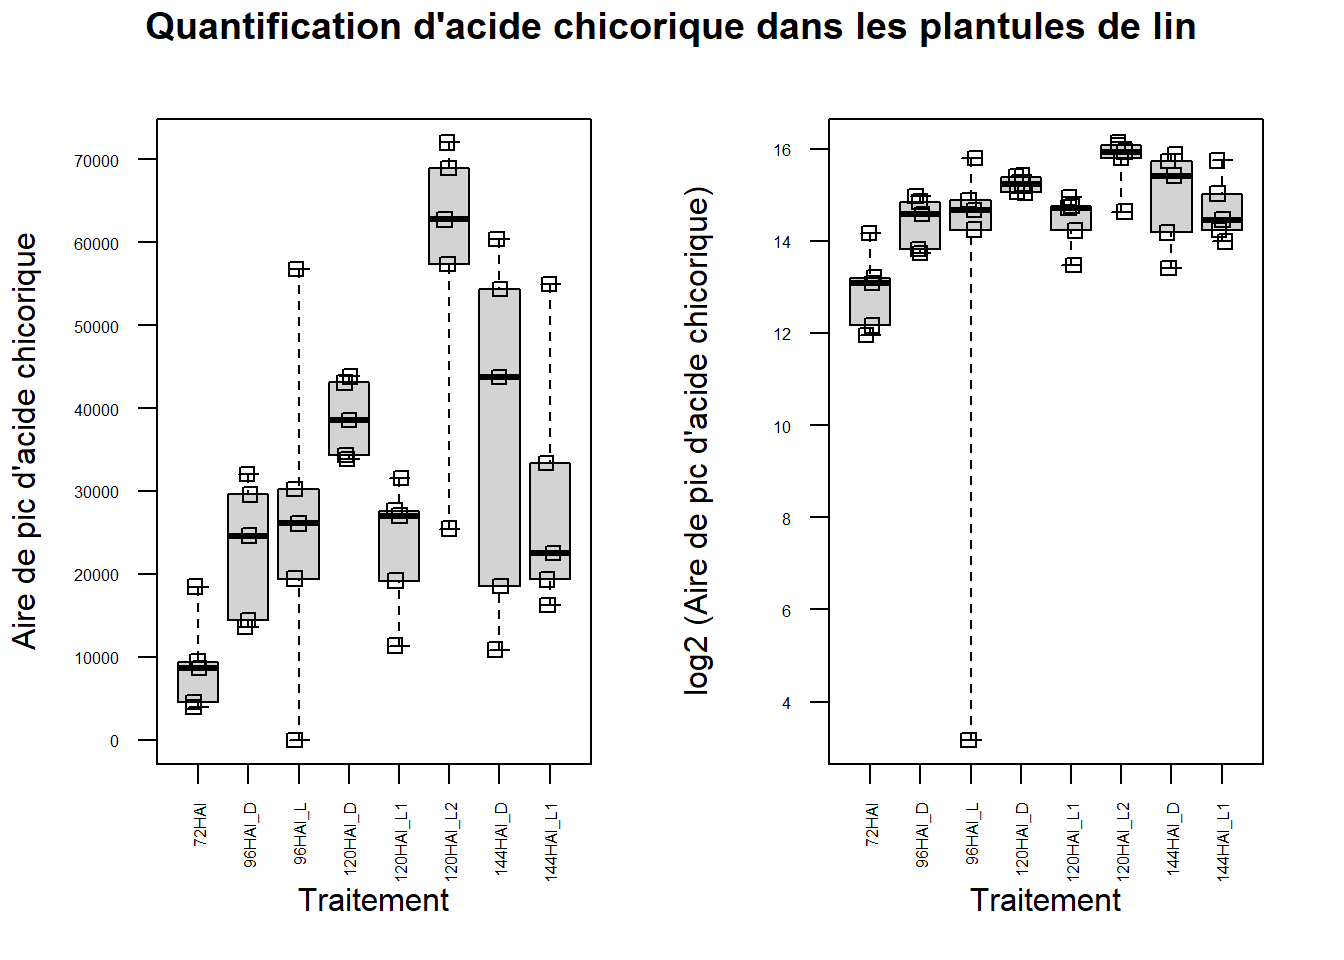
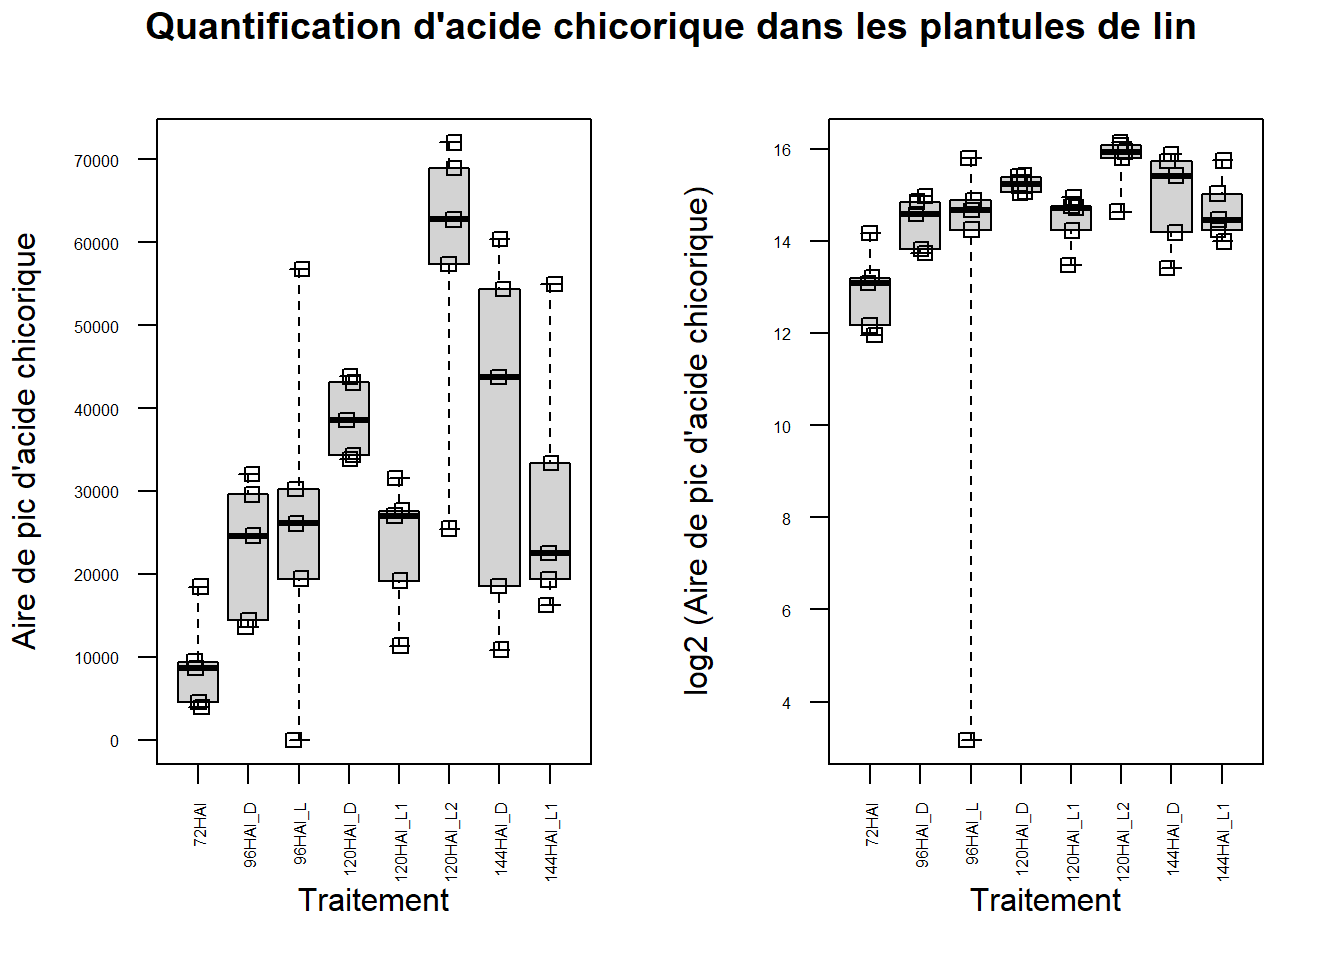
Built site for gh-pages

diff --git a/chicoricacid4.html b/chicoricacid4.html
@@ -392,7 +392,7 @@ F-statistic:  1132 on 1 and 19 DF,  p-value: &lt; 2.2e-16</code></pre>
 [10] "logtot"             </code></pre>
 </div>
 <div class="sourceCode cell-code" id="cb45"><pre class="sourceCode r code-with-copy"><code class="sourceCode r"><span id="cb45-1"><a href="#cb45-1" aria-hidden="true" tabindex="-1"></a><span class="co">#remove aberrant mass</span></span>
-<span id="cb45-2"><a href="#cb45-2" aria-hidden="true" tabindex="-1"></a><span class="co">#flaxdat.subset$weight_dry_tissue[flaxdat.subset$Condition.rep == "96HAI_D.2"]&lt;-NA</span></span>
+<span id="cb45-2"><a href="#cb45-2" aria-hidden="true" tabindex="-1"></a>flaxdat.subset<span class="sc">$</span>weight_dry_tissue[flaxdat.subset<span class="sc">$</span>Condition.rep <span class="sc">==</span> <span class="st">"96HAI_D.2"</span>]<span class="ot">&lt;-</span><span class="cn">NA</span></span>
 <span id="cb45-3"><a href="#cb45-3" aria-hidden="true" tabindex="-1"></a>splitted <span class="ot">&lt;-</span><span class="fu">split</span>(flaxdat.subset, flaxdat.subset<span class="sc">$</span>Condition)</span>
 <span id="cb45-4"><a href="#cb45-4" aria-hidden="true" tabindex="-1"></a></span>
 <span id="cb45-5"><a href="#cb45-5" aria-hidden="true" tabindex="-1"></a><span class="co">#create a funciton</span></span>
@@ -416,7 +416,7 @@ F-statistic:  1132 on 1 and 19 DF,  p-value: &lt; 2.2e-16</code></pre>
 <div class="cell-output cell-output-stdout">
 <pre><code>  Condition Mass_microg CI.lower_microg CI.upper_microg dryweight
 1     72HAI   0.6437733        0.518051       0.8000063  0.001428
-2   96HAI_D   1.3530006        1.082356       1.6913197  0.004554
+2   96HAI_D   1.3530006        1.082356       1.6913197  0.003100
 3   96HAI_L   1.7455929        1.362985       2.2356039  0.003160
 4  120HAI_D   2.0659403        1.640371       2.6019172  0.003748
 5 120HAI_L1   1.3753047        1.099939       1.7196066  0.003190

diff --git a/index.html b/index.html
@@ -392,7 +392,7 @@ F-statistic:  1132 on 1 and 19 DF,  p-value: &lt; 2.2e-16</code></pre>
 [10] "logtot"             </code></pre>
 </div>
 <div class="sourceCode cell-code" id="cb45"><pre class="sourceCode r code-with-copy"><code class="sourceCode r"><span id="cb45-1"><a href="#cb45-1" aria-hidden="true" tabindex="-1"></a><span class="co">#remove aberrant mass</span></span>
-<span id="cb45-2"><a href="#cb45-2" aria-hidden="true" tabindex="-1"></a><span class="co">#flaxdat.subset$weight_dry_tissue[flaxdat.subset$Condition.rep == "96HAI_D.2"]&lt;-NA</span></span>
+<span id="cb45-2"><a href="#cb45-2" aria-hidden="true" tabindex="-1"></a>flaxdat.subset<span class="sc">$</span>weight_dry_tissue[flaxdat.subset<span class="sc">$</span>Condition.rep <span class="sc">==</span> <span class="st">"96HAI_D.2"</span>]<span class="ot">&lt;-</span><span class="cn">NA</span></span>
 <span id="cb45-3"><a href="#cb45-3" aria-hidden="true" tabindex="-1"></a>splitted <span class="ot">&lt;-</span><span class="fu">split</span>(flaxdat.subset, flaxdat.subset<span class="sc">$</span>Condition)</span>
 <span id="cb45-4"><a href="#cb45-4" aria-hidden="true" tabindex="-1"></a></span>
 <span id="cb45-5"><a href="#cb45-5" aria-hidden="true" tabindex="-1"></a><span class="co">#create a funciton</span></span>
@@ -416,7 +416,7 @@ F-statistic:  1132 on 1 and 19 DF,  p-value: &lt; 2.2e-16</code></pre>
 <div class="cell-output cell-output-stdout">
 <pre><code>  Condition Mass_microg CI.lower_microg CI.upper_microg dryweight
 1     72HAI   0.6437733        0.518051       0.8000063  0.001428
-2   96HAI_D   1.3530006        1.082356       1.6913197  0.004554
+2   96HAI_D   1.3530006        1.082356       1.6913197  0.003100
 3   96HAI_L   1.7455929        1.362985       2.2356039  0.003160
 4  120HAI_D   2.0659403        1.640371       2.6019172  0.003748
 5 120HAI_L1   1.3753047        1.099939       1.7196066  0.003190
